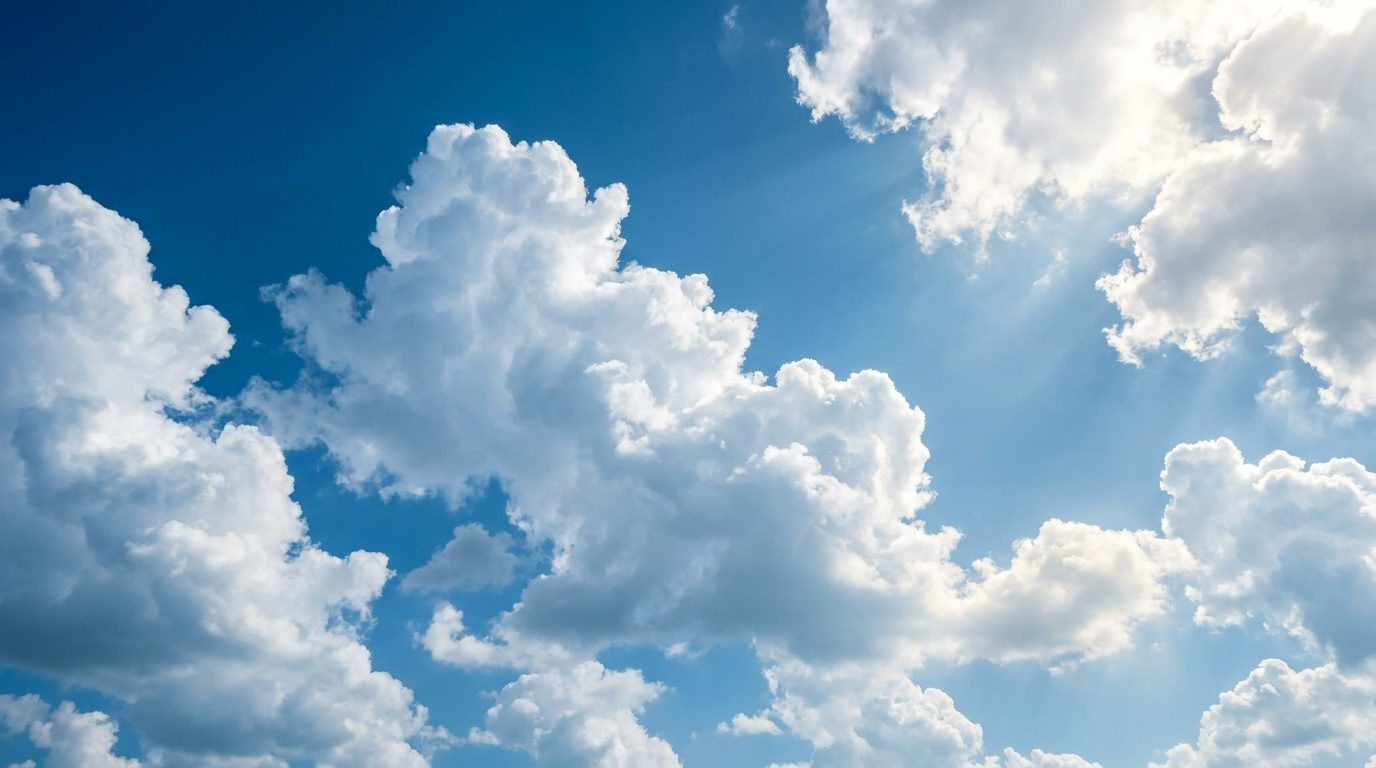
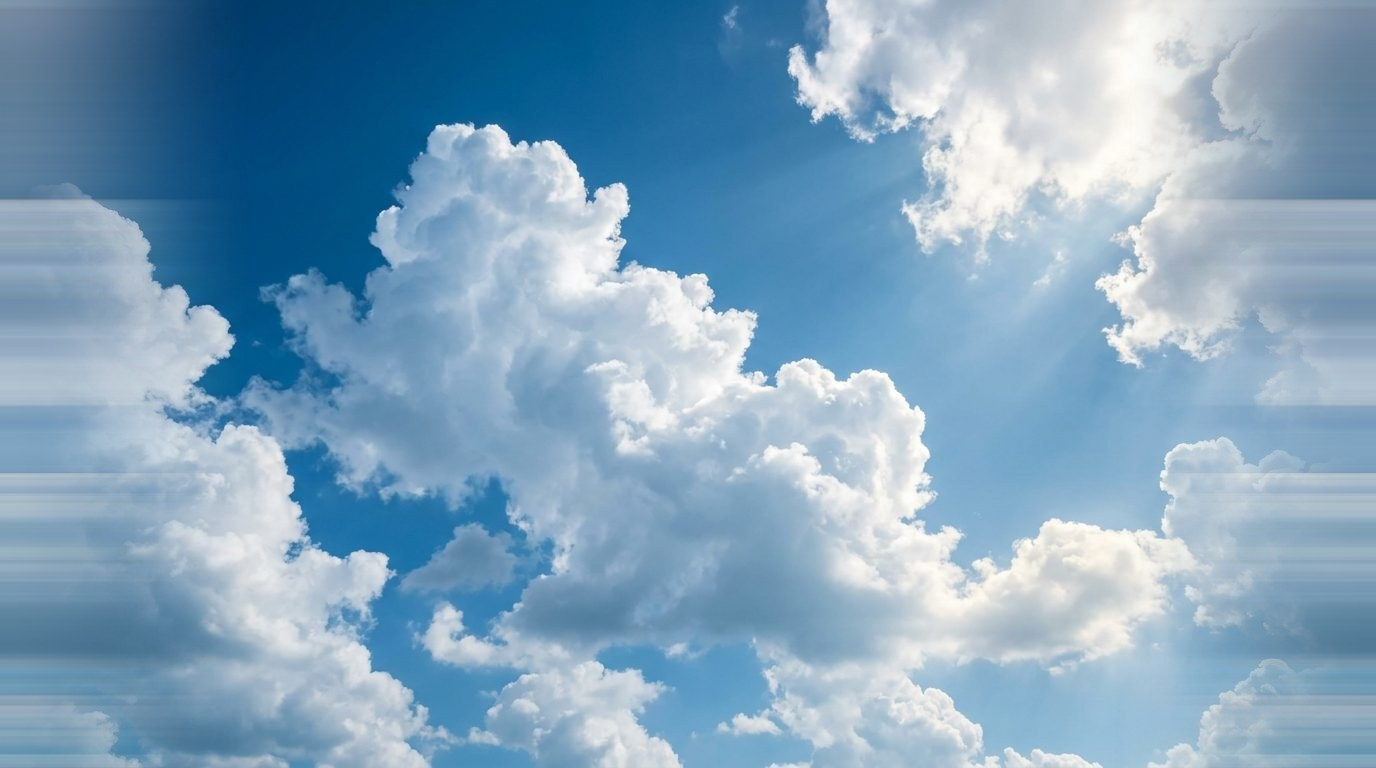
Add gentle seamless leftward drift animation to sky background, eliminate bottom footer gap, and add clean spacing below subpage header description

Changed region(s): [[0.0, 0.0, 0.1562, 1.0], [0.8438, 0.3125, 1.0, 1.0], [0.8438, 0.0, 1.0, 0.2812]]

diff --git a/assets/style.css b/assets/style.css
@@ -2465,6 +2465,7 @@ img {
   position: relative;
   overflow: hidden;
   box-shadow: 0 -10px 30px rgba(8, 16, 36, 0.35);
+  margin-bottom: 0 !important;
   transition: border-color 0.4s ease;
 }
 
@@ -2475,6 +2476,7 @@ body.index-page .main-footer {
     linear-gradient(135deg, rgba(10, 18, 42, 0.90) 0%, rgba(15, 28, 63, 0.82) 50%, rgba(10, 24, 56, 0.94) 100%),
     url("images/feast_night_sky.jpg") center center / cover no-repeat;
   border-top: 2px solid rgba(212, 163, 75, 0.45);
+  margin-bottom: 0 !important;
 }
 
 .footer-bottom {
@@ -2903,6 +2905,7 @@ body.index-page .main-footer {
 
 /* ==========================================================================
    Typography Studio & Live Customizer Drawer Styles
+   ========================================================================== */
 .font-launcher-btn {
   position: fixed;
   bottom: 28px;
@@ -3209,15 +3212,29 @@ body.index-page .main-footer {
 /* ==========================================================================
    Subpage Hero Banner & Community Layouts (community.html & contact.html & index.html)
    ========================================================================== */
+/* Gentle leftward sky drift animation (ultra-slow, seamless, soothing) */
+@keyframes skyDriftLeft {
+  0% {
+    background-position: 0 0, 0 center;
+  }
+  100% {
+    background-position: 0 0, -1376px center;
+  }
+}
+
 body.community-page,
 body.contact-page,
 body.index-page {
-  background: 
+  background-image: 
     linear-gradient(180deg, rgba(20, 70, 150, 0.35) 0%, rgba(54, 123, 214, 0.22) 250px, rgba(184, 219, 251, 0.15) 600px, rgba(235, 245, 255, 0.45) 100%),
-    url("images/sky_background.jpg") center center / cover no-repeat fixed;
-  background-attachment: fixed;
-  background-size: cover;
+    url("images/sky_background.jpg");
+  background-position: 0 0, 0 center;
+  background-repeat: no-repeat, repeat-x;
+  background-attachment: fixed, fixed;
+  background-size: cover, auto 100vh;
   min-height: 100vh;
+  animation: skyDriftLeft 180s linear infinite;
+  will-change: background-position;
 }
 
 body.community-page .section-wrapper,
@@ -3338,6 +3355,7 @@ body.community-page .filial-church-grand-card {
   color: rgba(255, 255, 255, 0.85);
   line-height: 1.65;
   margin: 0 auto;
+  padding-bottom: 1.25rem;
   max-width: 760px;
 }
 

diff --git a/community.html b/community.html
@@ -26,7 +26,7 @@
   <meta name="referrer" content="strict-origin-when-cross-origin">
 
   <!-- Custom Stylesheets -->
-  <link rel="stylesheet" href="assets/style.css?v=25">
+  <link rel="stylesheet" href="assets/style.css?v=26">
   <link rel="stylesheet" href="assets/themes.css?v=25">
 </head>
 <body id="top" class="community-page">

diff --git a/contact.html b/contact.html
@@ -26,7 +26,7 @@
   <meta name="referrer" content="strict-origin-when-cross-origin">
 
   <!-- Custom Stylesheets -->
-  <link rel="stylesheet" href="assets/style.css?v=25">
+  <link rel="stylesheet" href="assets/style.css?v=26">
   <link rel="stylesheet" href="assets/themes.css?v=25">
 </head>
 <body id="top" class="contact-page">

diff --git a/index.backup.locked.html b/index.backup.locked.html
@@ -26,7 +26,7 @@
   <meta name="referrer" content="strict-origin-when-cross-origin">
 
   <!-- Custom Stylesheets -->
-  <link rel="stylesheet" href="assets/style.css?v=25">
+  <link rel="stylesheet" href="assets/style.css?v=26">
   <link rel="stylesheet" href="assets/themes.css?v=25">
 </head>
 <body class="index-page">

diff --git a/index.html b/index.html
@@ -26,7 +26,7 @@
   <meta name="referrer" content="strict-origin-when-cross-origin">
 
   <!-- Custom Stylesheets -->
-  <link rel="stylesheet" href="assets/style.css?v=25">
+  <link rel="stylesheet" href="assets/style.css?v=26">
   <link rel="stylesheet" href="assets/themes.css?v=25">
 </head>
 <body class="index-page">
